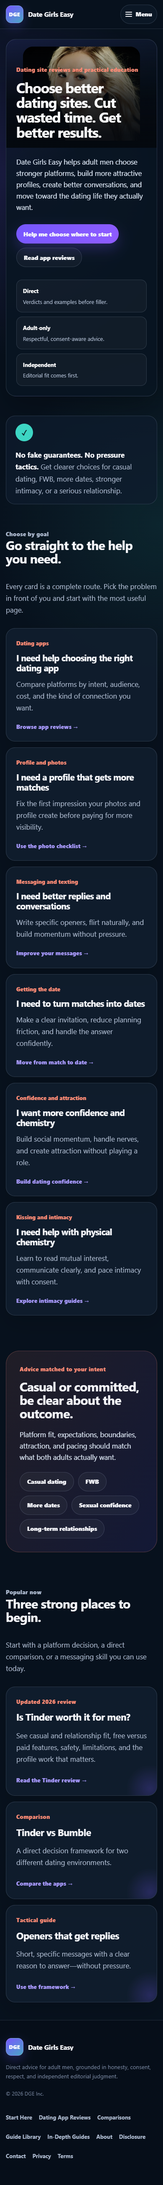
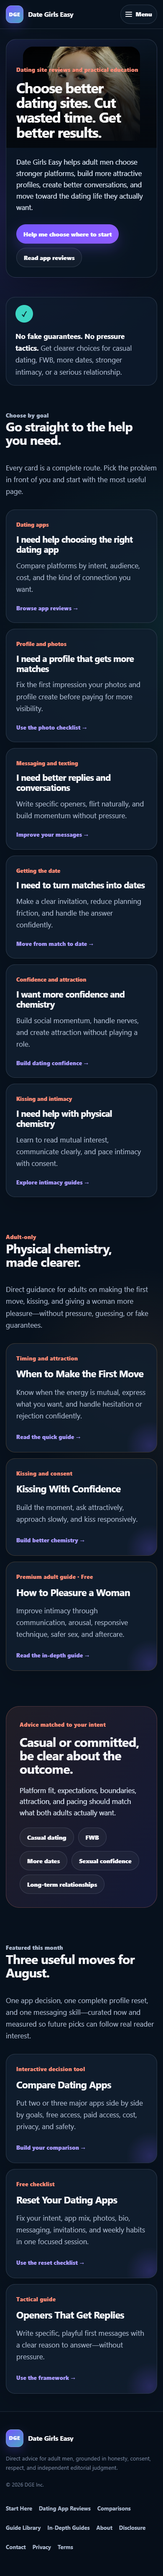
Polish homepage content discovery

Changed region(s): [[0.0308, 0.0, 0.9846, 0.9962], [0.7692, 0.4358, 0.8615, 0.4669]]

diff --git a/index.html b/index.html
@@ -153,11 +153,6 @@
               <a class="button-primary" href="/join.html">Help me choose where to start</a>
               <a class="button-secondary" href="/reviews/">Read app reviews</a>
             </div>
-            <div class="hero-proof" aria-label="Publishing principles">
-              <div><strong>Direct</strong><span>Verdicts and examples before filler.</span></div>
-              <div><strong>Adult-only</strong><span>Respectful, consent-aware advice.</span></div>
-              <div><strong>Independent</strong><span>Editorial fit comes first.</span></div>
-            </div>
           </div>
         </div>
       </section>
@@ -183,6 +178,20 @@
         </div>
       </section>
 
+      <section class="section-block adult-guide-section" aria-labelledby="adult-guide-title">
+        <div class="site-shell">
+          <div class="section-heading">
+            <div><p class="eyebrow warm">Adult-only</p><h2 class="section-title" id="adult-guide-title">Physical chemistry, made clearer.</h2></div>
+            <p>Direct guidance for adults on making the first move, kissing, and giving a woman more pleasure—without pressure, guessing, or fake guarantees.</p>
+          </div>
+          <div class="feature-grid adult-guide-grid">
+            <a class="editorial-card" href="/guides/when-to-make-the-first-move.html"><p class="eyebrow warm">Timing and attraction</p><h3 class="card-title">When to Make the First Move</h3><p>Know when the energy is mutual, express what you want, and handle hesitation or rejection confidently.</p><span class="card-link">Read the quick guide →</span></a>
+            <a class="editorial-card" href="/ebooks/kissing-and-intimacy/kissing-with-confidence.html"><p class="eyebrow warm">Kissing and consent</p><h3 class="card-title">Kissing With Confidence</h3><p>Build the moment, ask attractively, approach slowly, and kiss responsively.</p><span class="card-link">Build better chemistry →</span></a>
+            <a class="editorial-card premium-guide-card" href="/ebooks/kissing-and-intimacy/how-to-pleasure-a-woman.html"><p class="eyebrow warm">Premium adult guide · Free</p><h3 class="card-title">How to Pleasure a Woman</h3><p>Improve intimacy through communication, arousal, responsive technique, safer sex, and aftercare.</p><span class="card-link">Read the in-depth guide →</span></a>
+          </div>
+        </div>
+      </section>
+
       <section class="section-block">
         <div class="site-shell intent-strip">
           <p class="eyebrow warm">Advice matched to your intent</p>
@@ -194,11 +203,11 @@
 
       <section class="section-block">
         <div class="site-shell">
-          <div class="section-heading"><div><p class="eyebrow">Popular now</p><h2 class="section-title">Three strong places to begin.</h2></div><p>Start with a platform decision, a direct comparison, or a messaging skill you can use today.</p></div>
+          <div class="section-heading"><div><p class="eyebrow">Featured this month</p><h2 class="section-title">Three useful moves right now.</h2></div><p>One app decision, one complete profile reset, and one messaging skill—curated now and measured so future picks can follow real reader interest.</p></div>
           <div class="feature-grid">
-            <a class="editorial-card" href="/reviews/tinder.html"><p class="eyebrow warm">Updated 2026 review</p><h3 class="card-title">Is Tinder worth it for men?</h3><p>See casual and relationship fit, free versus paid features, safety, limitations, and the profile work that matters.</p><span class="card-link">Read the Tinder review →</span></a>
-            <a class="editorial-card" href="/comparisons/tinder-vs-bumble.html"><p class="eyebrow warm">Comparison</p><h3 class="card-title">Tinder vs Bumble</h3><p>A direct decision framework for two different dating environments.</p><span class="card-link">Compare the apps →</span></a>
-            <a class="editorial-card" href="/guides/openers-that-get-replies.html"><p class="eyebrow warm">Tactical guide</p><h3 class="card-title">Openers that get replies</h3><p>Short, specific messages with a clear reason to answer—without pressure.</p><span class="card-link">Use the framework →</span></a>
+            <a class="editorial-card" href="/comparisons/" data-featured-link data-featured-position="1"><p class="eyebrow warm">Interactive decision tool</p><h3 class="card-title">Compare Dating Apps</h3><p>Put two or three major apps side by side by goals, free access, paid access, cost, privacy, and safety.</p><span class="card-link">Build your comparison →</span></a>
+            <a class="editorial-card" href="/guides/dating-app-reset-checklist.html" data-featured-link data-featured-position="2"><p class="eyebrow warm">Free checklist</p><h3 class="card-title">Reset Your Dating Apps</h3><p>Fix your intent, app mix, photos, bio, messaging, invitations, and weekly habits in one focused session.</p><span class="card-link">Use the reset checklist →</span></a>
+            <a class="editorial-card" href="/guides/openers-that-get-replies.html" data-featured-link data-featured-position="3"><p class="eyebrow warm">Tactical guide</p><h3 class="card-title">Openers That Get Replies</h3><p>Write specific, playful first messages with a clear reason to answer—without pressure.</p><span class="card-link">Use the framework →</span></a>
           </div>
         </div>
       </section>

diff --git a/scripts/browser_qa.js b/scripts/browser_qa.js
@@ -367,6 +367,28 @@ const guideReaderPaths = [
   if (!cardPage.url().endsWith("/reviews/")) errors.push(`Whole goal-card click navigated to ${cardPage.url()}`);
   await cardContext.close();
 
+  for (const width of [390, 1440]) {
+    const homepageContext = await browser.newContext({ viewport: { width, height: 900 }, deviceScaleFactor: 1 });
+    const homepage = await homepageContext.newPage();
+    await homepage.goto(`${baseUrl}/`, { waitUntil: "domcontentloaded" });
+    const homepageState = await homepage.evaluate(() => ({
+      heroProof: Boolean(document.querySelector(".hero-proof")),
+      adultGuideLinks: document.querySelectorAll(".adult-guide-grid > a").length,
+      featuredLinks: document.querySelectorAll("[data-featured-link]").length,
+      featuredHeading: document.querySelector("[data-featured-link]")?.closest("section")?.querySelector("h2")?.textContent || "",
+    }));
+    if (homepageState.heroProof || homepageState.adultGuideLinks !== 3 || homepageState.featuredLinks !== 3 || !homepageState.featuredHeading.includes("Three useful moves")) {
+      errors.push(`Homepage discovery contract failed at ${width}px: ${JSON.stringify(homepageState)}`);
+    }
+    await homepage.evaluate(() => document.querySelectorAll("[data-featured-link]").forEach((link) => link.addEventListener("click", (event) => event.preventDefault())));
+    await homepage.locator("[data-featured-link]").first().click();
+    const trackedEvent = await homepage.evaluate(() => [...(window.dataLayer || [])].reverse().find((item) => item.event === "featured_content_click"));
+    if (!trackedEvent || trackedEvent.featured_destination !== "/comparisons/" || trackedEvent.featured_position !== 1) {
+      errors.push(`Homepage featured click event failed at ${width}px: ${JSON.stringify(trackedEvent)}`);
+    }
+    await homepageContext.close();
+  }
+
   for (const [filename, pathname, width, height] of screenshotPages) {
     const context = await browser.newContext({ viewport: { width, height }, deviceScaleFactor: 1 });
     const page = await context.newPage();

diff --git a/design-v2.css b/design-v2.css
@@ -706,6 +706,33 @@ body.design-v2::before {
   line-height: 1.45;
 }
 
+.adult-guide-section {
+  position: relative;
+}
+
+.adult-guide-section::before {
+  position: absolute;
+  inset: 8% 0 auto;
+  z-index: -1;
+  height: 78%;
+  background: radial-gradient(circle at 82% 35%, rgba(255, 173, 92, 0.09), transparent 42%);
+  content: "";
+  pointer-events: none;
+}
+
+.adult-guide-grid .editorial-card {
+  border-color: rgba(255, 173, 92, 0.2);
+}
+
+.adult-guide-grid .editorial-card:hover {
+  border-color: rgba(255, 173, 92, 0.58);
+}
+
+.premium-guide-card {
+  background: linear-gradient(145deg, rgba(77, 52, 155, 0.35), rgba(15, 30, 48, 0.96));
+  box-shadow: inset 0 3px 0 rgba(255, 173, 92, 0.72);
+}
+
 .trust-band {
   padding: 18px 0;
 }

diff --git a/assets/site.js b/assets/site.js
@@ -375,4 +375,16 @@
       updateControls();
     }
   }
+
+  document.querySelectorAll("[data-featured-link]").forEach(function (link) {
+    link.addEventListener("click", function () {
+      window.dataLayer = window.dataLayer || [];
+      window.dataLayer.push({
+        event: "featured_content_click",
+        featured_title: link.querySelector(".card-title")?.textContent.trim() || link.textContent.trim(),
+        featured_destination: link.getAttribute("href"),
+        featured_position: Number(link.dataset.featuredPosition || 0),
+      });
+    });
+  });
 })();

diff --git a/scripts/qa_site.py b/scripts/qa_site.py
@@ -373,6 +373,21 @@ def main() -> int:
         if raw.count('class="goal-card"') != goal_count:
             errors.append(f"{rel}: expected {goal_count} whole-link goal cards")
 
+    homepage_raw = (ROOT / "index.html").read_text(encoding="utf-8")
+    if "hero-proof" in homepage_raw:
+        errors.append("index.html: noninteractive publishing-principle boxes remain in the hero")
+    for href in (
+        "/guides/when-to-make-the-first-move.html",
+        "/ebooks/kissing-and-intimacy/kissing-with-confidence.html",
+        "/ebooks/kissing-and-intimacy/how-to-pleasure-a-woman.html",
+    ):
+        if f'href="{href}"' not in homepage_raw:
+            errors.append(f"index.html: adult-only guide section lacks {href}")
+    if homepage_raw.count("data-featured-link") != 3 or "Featured this month" not in homepage_raw:
+        errors.append("index.html: expected three measurable Featured this month links")
+    if "Popular now" in homepage_raw or "Tinder vs Bumble" in homepage_raw:
+        errors.append("index.html: retired or unsupported homepage popularity treatment remains")
+
     guide_hub_raw = (ROOT / "guides" / "index.html").read_text(encoding="utf-8")
     for contract in ("data-guide-library", "data-guide-search", "data-guide-filter", "data-guide-count", "data-guide-clear"):
         if contract not in guide_hub_raw:

diff --git a/CHANGELOG-PROJECT.md b/CHANGELOG-PROJECT.md
@@ -1,5 +1,14 @@
 # Project Changelog
 
+## 2026-08-25 — Homepage discovery and featured-content polish
+
+- Removed the three noninteractive publishing-principle boxes from the hero; the editorial promise remains in the clearly noninteractive trust band below it.
+- Added a dedicated **Adult-only** physical-chemistry section with three real destinations: first-move timing, kissing confidence, and the premium-style free women’s-pleasure guide.
+- Replaced the unsupported **Popular now** treatment and Tinder/Tinder-vs-Bumble priority with a manually curated **Featured this month** module: Compare Dating Apps, Dating App Reset Checklist, and Openers That Get Replies.
+- Added privacy-compatible `featured_content_click` data-layer events containing title, internal destination, and position so future selections can follow actual reader interest once enough data exists.
+- Final QA passes across 54 HTML pages, 47 sitemap URLs, 324 full-site responsive combinations, 120 representative combinations, valid HTML/JSON-LD, and 108 axe/WCAG combinations with zero violations. Homepage Lighthouse scores 99 performance, 100 accessibility, and 100 SEO, with 2.10-second LCP and zero CLS.
+- Rollback tag `backup/pre-homepage-discovery-2026-08-25` preserves deployed commit `ade7ae7fb12481bd5676965ecfe74b7356b4d548` before this enhancement.
+
 ## 2026-08-25 — Adult-only intimacy guide cluster
 
 - Published two original, consent-aware additions requested by the owner: **When to Make the First Move** as a focused quick guide and **How to Pleasure a Woman** as a premium-style, free in-depth guide.

diff --git a/QA-CHECKLIST.md b/QA-CHECKLIST.md
@@ -1,5 +1,14 @@
 # QA Checklist
 
+## Homepage discovery and featured content
+
+- [x] Noninteractive hero boxes removed; hero retains its protected H1, metadata, image, and primary routes
+- [x] Adult-only section contains exactly three whole-card guide links with no placeholder destinations
+- [x] Featured this month contains exactly three curated destinations and no unsupported Tinder or Tinder-vs-Bumble priority
+- [x] Featured-link click event records title, internal destination, and display position in the existing data layer
+- [x] Structural, valid-HTML, 324 full-site responsive, 120 representative, and 108 axe/WCAG combinations pass with no material errors
+- [x] Homepage Lighthouse scores 99 performance, 100 accessibility, 100 SEO, 2.10-second LCP, and zero CLS
+
 ## Adult-only intimacy guide cluster
 
 - [x] Both new pages are original DGE Inc. content for adults and use the shared guide-reader contract

diff --git a/DEPLOYMENT-AND-ROLLBACK.md b/DEPLOYMENT-AND-ROLLBACK.md
@@ -19,6 +19,7 @@ Incremental enhancement rollback points:
 - Shared guide reading-system enhancement: rollback point `5864b47f8f1cb0682f37c2a1d44afb8849f1260a`, preserved as `backup/pre-guide-reading-system-2026-08-25`.
 - Focused Dating App Reviews hub: rollback point `1ac7e28773f2390bf746cc87845de31503565fc2`, preserved as `backup/pre-focused-review-hub-2026-08-25`.
 - Adult-only intimacy guide cluster: rollback point `c759cf28a9e60e75853a1ef5dc0745d392e2dde7`, preserved as `backup/pre-intimacy-guide-cluster-2026-08-25`.
+- Homepage discovery and featured-content polish: rollback point `ade7ae7fb12481bd5676965ecfe74b7356b4d548`, preserved as `backup/pre-homepage-discovery-2026-08-25`.
 
 ## Release
 
